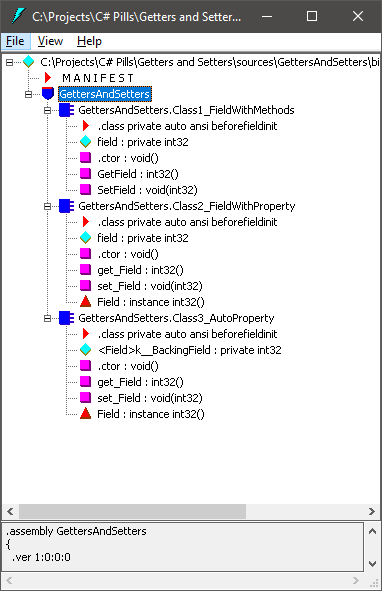
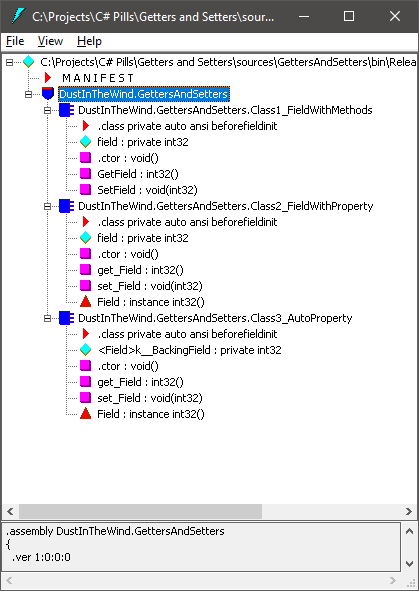
add copyright information

diff --git a/sources/GettersAndSetters/Class2_FieldWithProperty.cs b/sources/GettersAndSetters/Class2_FieldWithProperty.cs
@@ -1,4 +1,20 @@
-namespace GettersAndSetters
+// C# Pills 15mg
+// Copyright (C) 2021 Dust in the Wind
+// 
+// This program is free software: you can redistribute it and/or modify
+// it under the terms of the GNU General Public License as published by
+// the Free Software Foundation, either version 3 of the License, or
+// (at your option) any later version.
+// 
+// This program is distributed in the hope that it will be useful,
+// but WITHOUT ANY WARRANTY; without even the implied warranty of
+// MERCHANTABILITY or FITNESS FOR A PARTICULAR PURPOSE.  See the
+// GNU General Public License for more details.
+// 
+// You should have received a copy of the GNU General Public License
+// along with this program.  If not, see <http://www.gnu.org/licenses/>.
+
+namespace DustInTheWind.GettersAndSetters
 {
     internal class Class2_FieldWithProperty
     {

diff --git a/sources/GettersAndSetters/Class1_FieldWithMethods.cs b/sources/GettersAndSetters/Class1_FieldWithMethods.cs
@@ -1,4 +1,20 @@
-namespace GettersAndSetters
+// C# Pills 15mg
+// Copyright (C) 2021 Dust in the Wind
+// 
+// This program is free software: you can redistribute it and/or modify
+// it under the terms of the GNU General Public License as published by
+// the Free Software Foundation, either version 3 of the License, or
+// (at your option) any later version.
+// 
+// This program is distributed in the hope that it will be useful,
+// but WITHOUT ANY WARRANTY; without even the implied warranty of
+// MERCHANTABILITY or FITNESS FOR A PARTICULAR PURPOSE.  See the
+// GNU General Public License for more details.
+// 
+// You should have received a copy of the GNU General Public License
+// along with this program.  If not, see <http://www.gnu.org/licenses/>.
+
+namespace DustInTheWind.GettersAndSetters
 {
     internal class Class1_FieldWithMethods
     {

diff --git a/sources/GettersAndSetters/Class3_AutoProperty.cs b/sources/GettersAndSetters/Class3_AutoProperty.cs
@@ -1,4 +1,20 @@
-namespace GettersAndSetters
+// C# Pills 15mg
+// Copyright (C) 2021 Dust in the Wind
+// 
+// This program is free software: you can redistribute it and/or modify
+// it under the terms of the GNU General Public License as published by
+// the Free Software Foundation, either version 3 of the License, or
+// (at your option) any later version.
+// 
+// This program is distributed in the hope that it will be useful,
+// but WITHOUT ANY WARRANTY; without even the implied warranty of
+// MERCHANTABILITY or FITNESS FOR A PARTICULAR PURPOSE.  See the
+// GNU General Public License for more details.
+// 
+// You should have received a copy of the GNU General Public License
+// along with this program.  If not, see <http://www.gnu.org/licenses/>.
+
+namespace DustInTheWind.GettersAndSetters
 {
     internal class Class3_AutoProperty
     {

diff --git a/doc/article/README.md b/doc/article/README.md
@@ -102,7 +102,7 @@ internal class Class3_AutoProperty
 
 But now we have this question:
 
-- Does a property actually create those two properties behind the scene or it does some other tricks there?
+- Does a property actually create those two methods behind the scene or it does some other tricks there?
 
 Let's compile in release mode the previous class and look at it with ILDASM.
 
